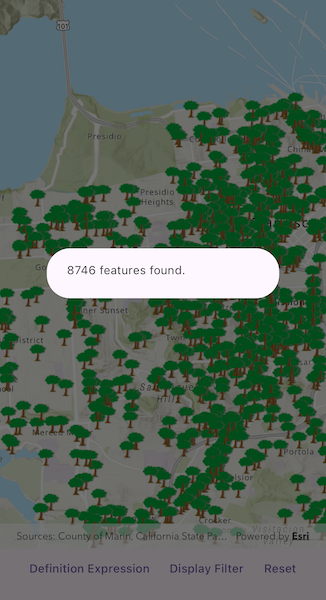
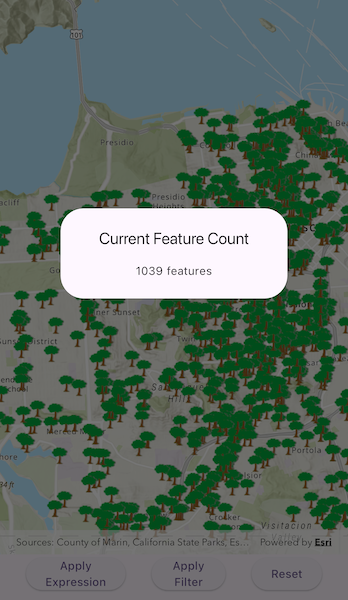
Use ElevatedButton (#62)
* Use ElevatedButton

* Use ElevatedButton

* Update screen capture

* Update labels and screen capture

diff --git a/lib/samples/show_service_area/show_service_area_sample.dart b/lib/samples/show_service_area/show_service_area_sample.dart
@@ -85,18 +85,18 @@ class _ShowServiceAreaSampleState extends State<ShowServiceAreaSample>
                 SizedBox(
                   height: 60,
                   child: Row(
-                    mainAxisAlignment: MainAxisAlignment.center,
+                    mainAxisAlignment: MainAxisAlignment.spaceEvenly,
                     children: [
                       // Create segmented buttons for toggling adding a facility or barrier to the map.
                       SegmentedButton(
-                        segments: [
+                        segments: const [
                           ButtonSegment(
                             value: Selection.facility,
-                            label: Text(Selection.facility.name),
+                            label: Text('Facility'),
                           ),
                           ButtonSegment(
                             value: Selection.barrier,
-                            label: Text(Selection.barrier.name),
+                            label: Text('Barrier'),
                           ),
                         ],
                         selected: {_segmentedButtonSelection},
@@ -109,11 +109,11 @@ class _ShowServiceAreaSampleState extends State<ShowServiceAreaSample>
                         showSelectedIcon: false,
                       ),
                       // Create buttons for calculating the service area and resetting.
-                      TextButton(
+                      ElevatedButton(
                         onPressed: solveServiceArea,
                         child: const Text('Service Areas'),
                       ),
-                      TextButton(
+                      ElevatedButton(
                         onPressed: resetServiceArea,
                         child: const Text('Reset'),
                       ),

diff --git a/lib/samples/filter_by_definition_expression_or_display_filter/filter_by_definition_expression_or_display_filter_sample.dart b/lib/samples/filter_by_definition_expression_or_display_filter/filter_by_definition_expression_or_display_filter_sample.dart
@@ -57,20 +57,26 @@ class _FilterByDefinitionExpressionOrDisplayFilterSampleState
             ),
             // Add a text widget to display the feature count.
             Row(
-              mainAxisAlignment: MainAxisAlignment.center,
+              mainAxisAlignment: MainAxisAlignment.spaceEvenly,
               children: [
                 // Add a button to apply a definition expression.
-                TextButton(
+                ElevatedButton(
                   onPressed: applyDefinitionExpression,
-                  child: const Text('Apply Expression'),
+                  child: const Text(
+                    'Apply \nExpression',
+                    textAlign: TextAlign.center,
+                  ),
                 ),
                 // Add a button to apply a display filter.
-                TextButton(
+                ElevatedButton(
                   onPressed: applyDisplayFilter,
-                  child: const Text('Apply Filter'),
+                  child: const Text(
+                    'Apply \nFilter',
+                    textAlign: TextAlign.center,
+                  ),
                 ),
                 // Add a button to reset the definition expression and display filter.
-                TextButton(
+                ElevatedButton(
                   onPressed: reset,
                   child: const Text('Reset'),
                 ),
